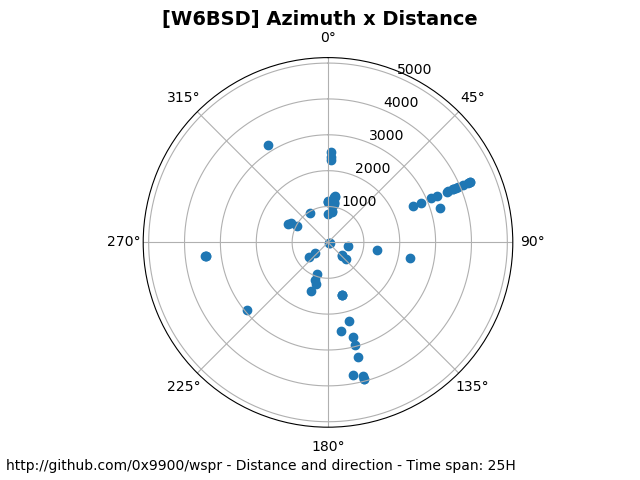
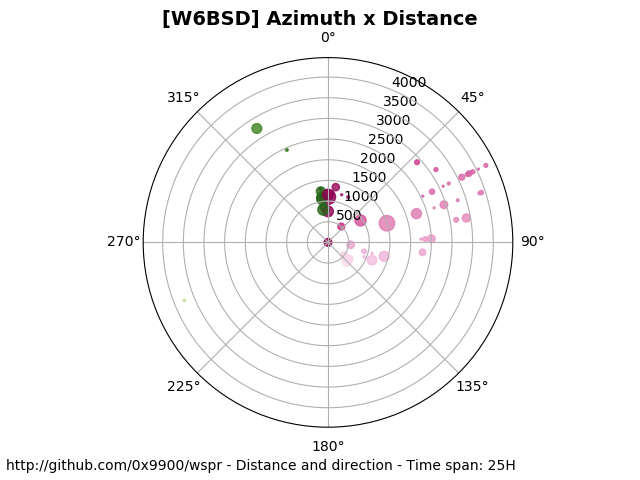
Fix azimuth projection Added density in azimuth projection Fixed some pylint errors

diff --git a/leaf.py b/leaf.py
@@ -14,6 +14,7 @@ $ export KEY="aGAT9om5wASsmx8CIrH48MB8Dhh"
 import argparse
 import collections
 import logging
+import math
 import os
 import sys
 
@@ -25,7 +26,7 @@ import matplotlib.pyplot as plt
 import numpy as np
 import requests
 
-from scipy.interpolate import make_interp_spline, BSpline
+from scipy.interpolate import make_interp_spline
 
 try:
   from mpl_toolkits.basemap import Basemap
@@ -41,21 +42,21 @@ DXPLORER_URL = "http://dxplorer.net/wspr/tx/spots.json"
 DEFAULT_BAND = "20m"
 
 BANDS = collections.OrderedDict((
-  ("160m", 1),
-  ("80m", 3),
-  ("60m", 5),
-  ("40m", 7),
-  ("30m", 10),
-  ("20m", 14),
-  ("17m", 18),
-  ("15m", 21),
-  ("12m", 24),
-  ("10m", 28),
-  ("6m", 50),
-  ("4m", 70),
-  ("2m", 144),
-  ("70cm", 432),
-  ("23cm", 1296),
+    ("160m", 1),
+    ("80m", 3),
+    ("60m", 5),
+    ("40m", 7),
+    ("30m", 10),
+    ("20m", 14),
+    ("17m", 18),
+    ("15m", 21),
+    ("12m", 24),
+    ("10m", 28),
+    ("6m", 50),
+    ("4m", 70),
+    ("2m", 144),
+    ("70cm", 432),
+    ("23cm", 1296),
 ))
 
 
@@ -90,7 +91,8 @@ class WsprData(object):
         setattr(self, 'rx_lat', lat)
 
   def __repr__(self):
-    return "WsprData: {0.tx_call}/{0.rx_call}, distance: {0.distance}, snr: {0.snr}".format(self)
+    pattern = "WsprData: {0.tx_call}/{0.rx_call}, distance: {0.distance}, snr: {0.snr}"
+    return pattern.format(self=self)
 
 
 def grid2latlong(maiden):
@@ -166,25 +168,32 @@ def azimuth(wspr_data):
   filename = os.path.join(Config.target, 'azimuth.png')
   logging.info('Drawing azimuth to %s', filename)
 
-  data = collections.defaultdict(set)
+  data = []
   for node in wspr_data:
-    key = int(node.azimuth/Config.granularity) * Config.granularity
-    data[key].add(node.distance)
+    data.append((math.radians(int(node.azimuth/Config.granularity) * Config.granularity),
+                 (node.distance / 50) * 50))
 
-  elements = []
-  for azim, dists in data.items():
-    for dist in reject_outliers(list(dists)):
-      elements.append((azim, dist))
+  dist_count = collections.defaultdict(int)
+  for elem in data:
+    dist_count[elem] += 1
+
+  theta = []
+  distance = []
+  density = []
+  for key, cnt in dist_count.items():
+    theta.append(key[0])
+    distance.append(key[1])
+    density.append(cnt * 2)
 
   fig = plt.figure()
   fig.text(.01, .02, ('http://github.com/0x9900/wspr - Distance and direction - '
                       'Time span: %s') % Config.timelimit)
   fig.suptitle('[{}] Azimuth x Distance'.format(Config.callsign), fontsize=14, fontweight='bold')
 
-  ax_ = fig.add_subplot(111, polar=True)
+  ax_ = fig.add_subplot(111, projection="polar")
   ax_.set_theta_zero_location("N")
   ax_.set_theta_direction(-1)
-  ax_.scatter(*zip(*elements))
+  ax_.scatter(theta, distance, s=density, c=theta, cmap='PiYG', alpha=0.8)
 
   plt.savefig(filename)
   plt.close()
@@ -304,7 +313,6 @@ def violin_plot(wspr_data):
 
 
 def contact_map(wspr_data):
-
   """Show all the contacts on a map"""
   filename = os.path.join(Config.target, 'contactmap.png')
   logging.info('Drawing connection map to %s', filename)
@@ -323,12 +331,13 @@ def contact_map(wspr_data):
     points.append((data.rx_lon, data.rx_lat))
 
   points = np.array(points)
-  right, up = points.max(axis=0)
+  right, upd = points.max(axis=0)
   left, down = points.min(axis=0)
 
   logging.info("Origin lat: %f / lon: %f", wspr_data[0].tx_lat, wspr_data[0].tx_lon)
-  bmap = Basemap(projection='cyl', lon_0=wspr_data[0].tx_lon, lat_0=wspr_data[0].tx_lat, resolution='c',
-                 urcrnrlat=up+5, urcrnrlon=right+15, llcrnrlat=down-15, llcrnrlon=left-5)
+  bmap = Basemap(projection='cyl', lon_0=wspr_data[0].tx_lon, lat_0=wspr_data[0].tx_lat,
+                 urcrnrlat=upd+5, urcrnrlon=right+15, llcrnrlat=down-15, llcrnrlon=left-5,
+                 resolution='c')
   bmap.drawstates()
 
   bmap.fillcontinents(color='white', lake_color='aqua')
@@ -339,7 +348,7 @@ def contact_map(wspr_data):
 
   for lon, lat in points:
     bmap.drawgreatcircle(wspr_data[0].tx_lon, wspr_data[0].tx_lat, lon, lat,
-                         linewidth=.25, color='navy')
+                         linewidth=.5, color='navy')
     x, y = bmap(lon, lat)
     bmap.plot(x, y, 'v', markersize=4, alpha=.5, color='red')
 
@@ -348,6 +357,7 @@ def contact_map(wspr_data):
 
 
 def band_select(argument):
+  """Select and validate the band passed as argument"""
   argument = argument.lower()
   if argument not in BANDS:
     raise argparse.ArgumentTypeError("Possible bands are:", ",".join(BANDS))
